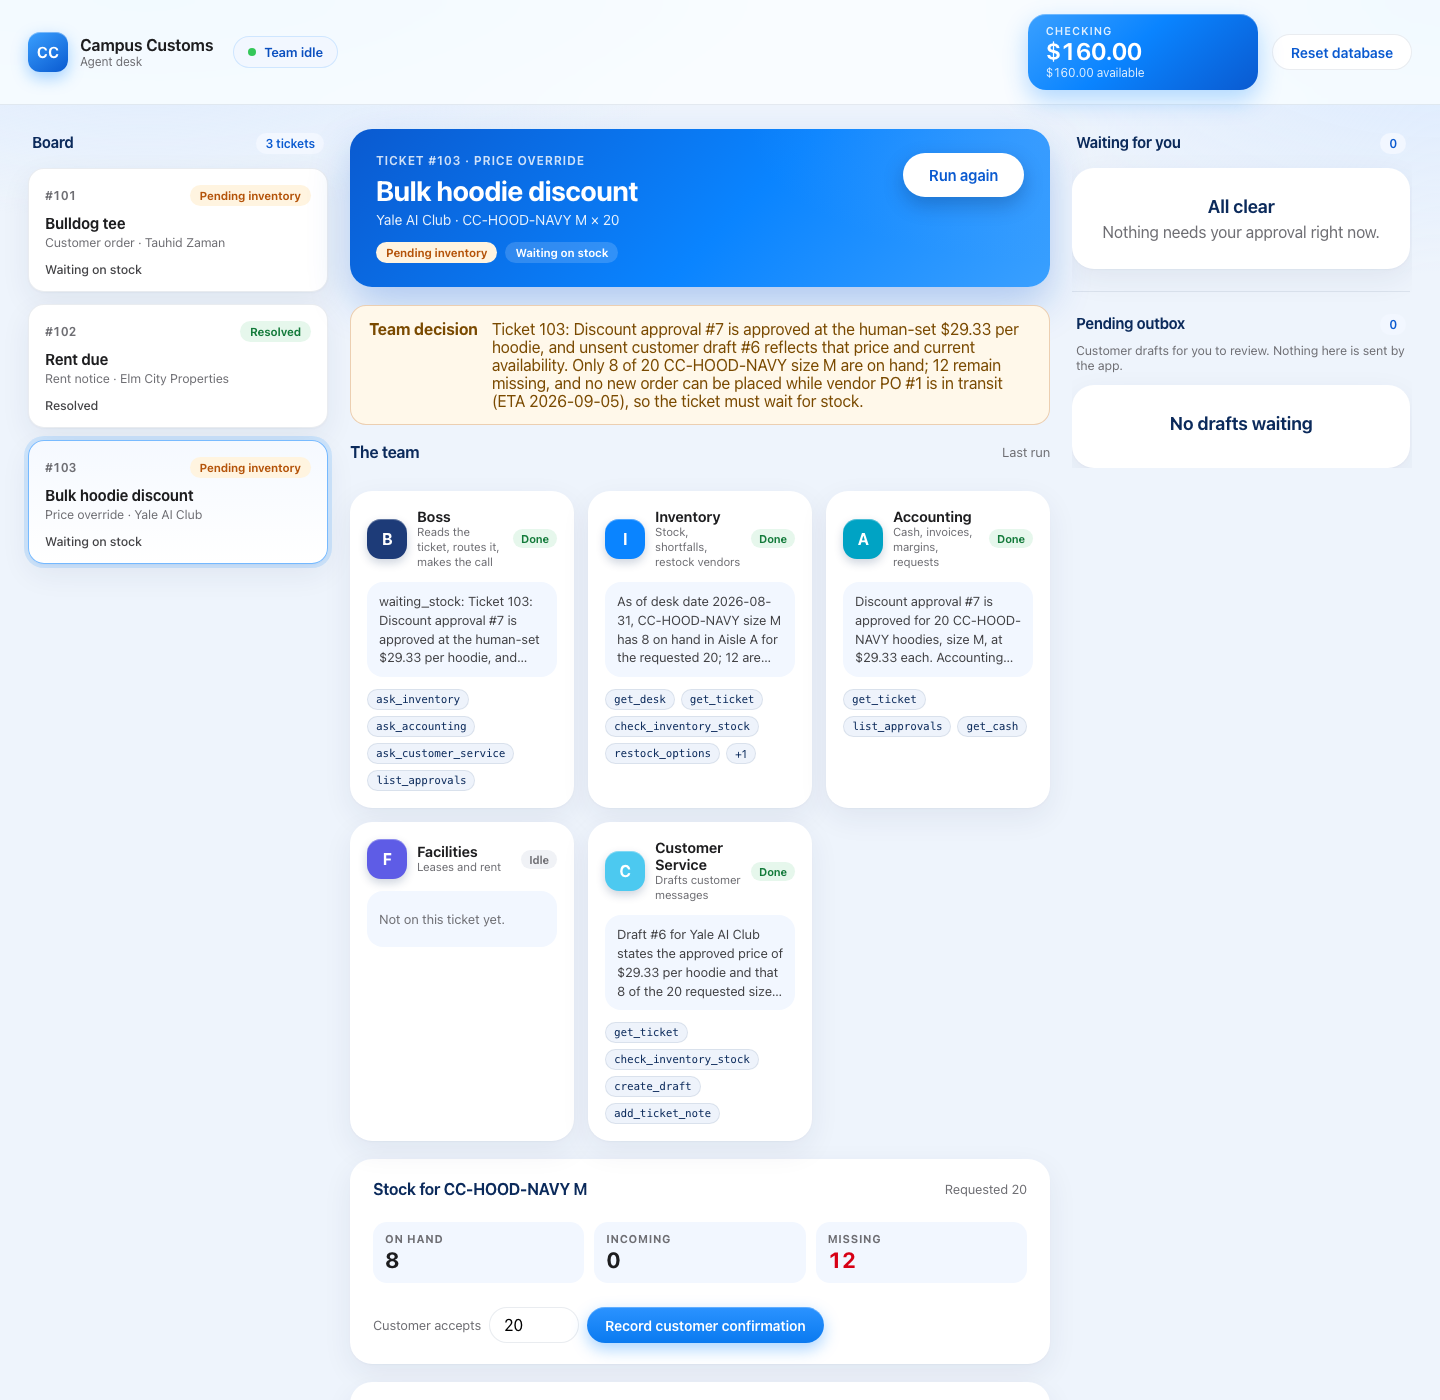
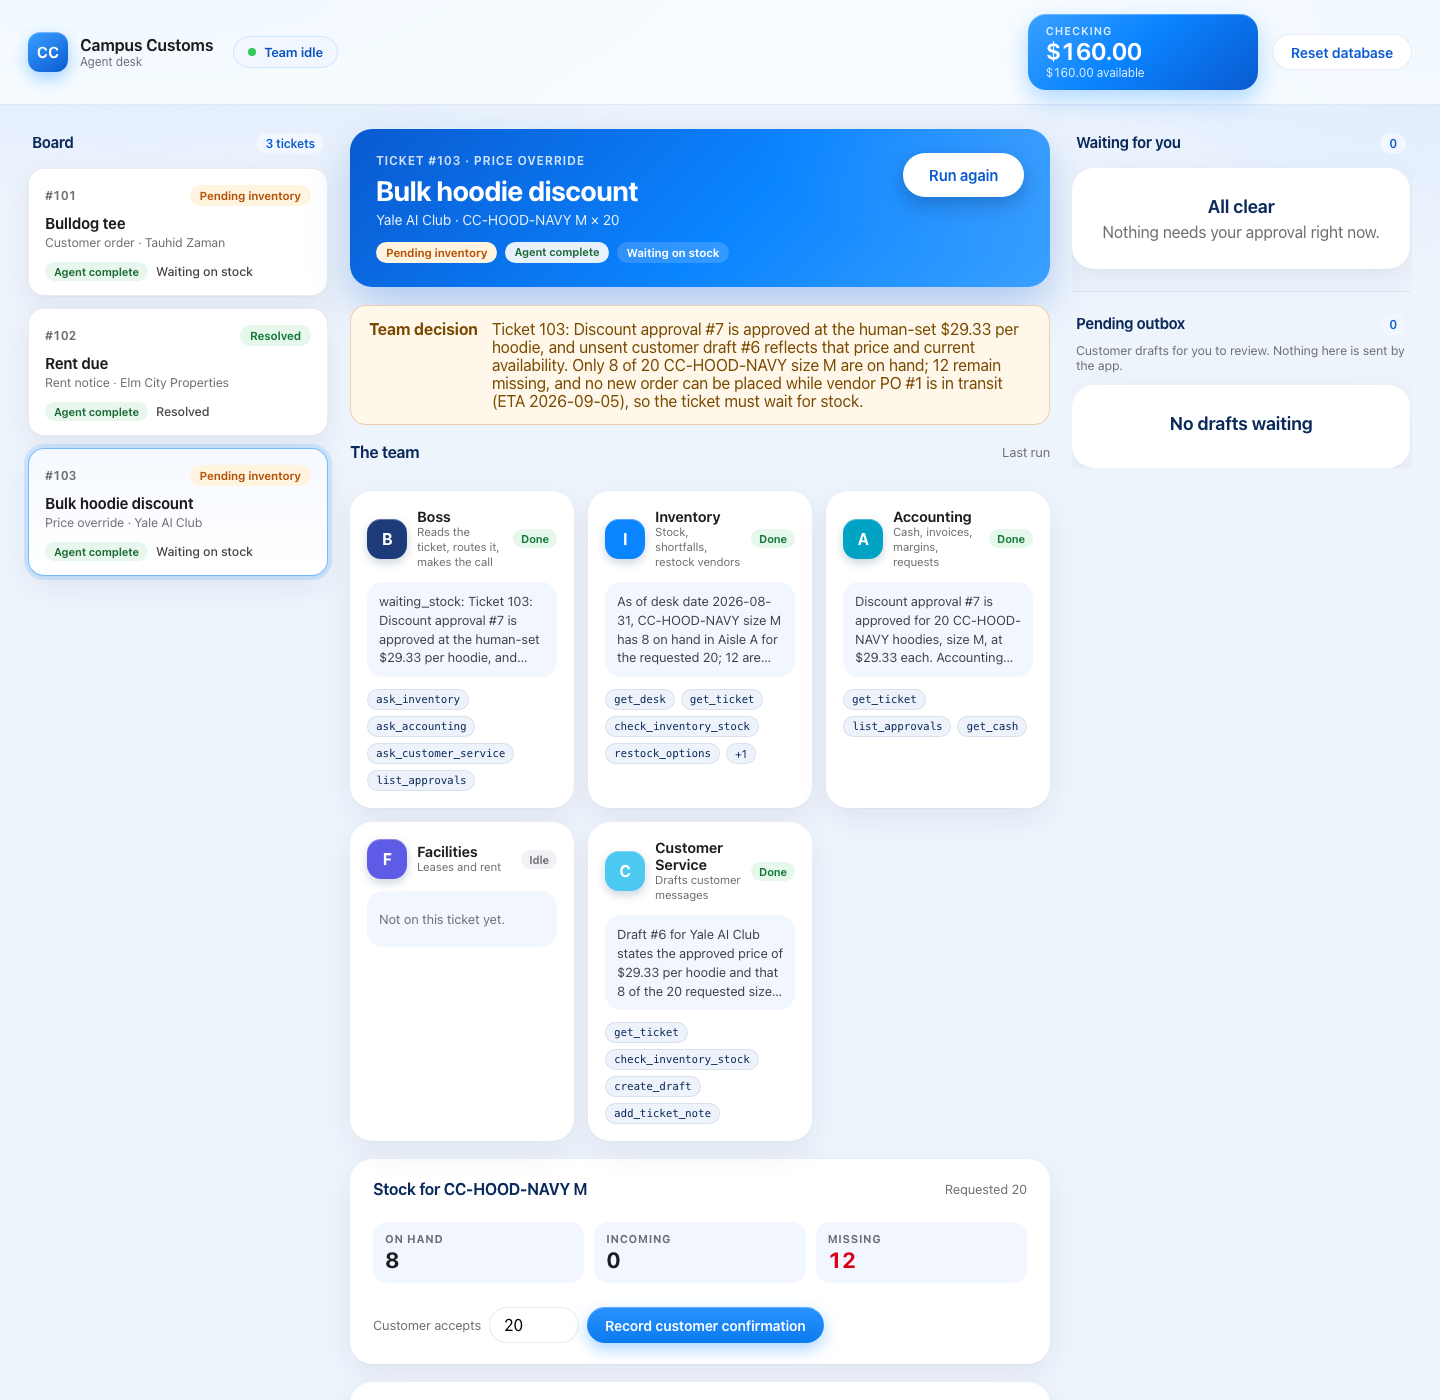
Separate agent outcome from ticket status: agent complete vs ticket pending inventory/resolved/blocked

Changed region(s): [[0.0, 0.1843, 0.25, 0.43], [0.3438, 0.1536, 0.5, 0.215]]

diff --git a/output/desk_tickets.html b/output/desk_tickets.html
@@ -468,9 +468,9 @@ Specialist to specialist: none expected. Possible: accounting asks Boss for the 
       <table>
         <thead><tr><th>Ticket</th><th>Status</th><th>Checking at that point</th><th>Cash that belongs to this ticket</th></tr></thead>
         <tbody>
-          <tr><td>101</td><td>Payments resolved; ticket pending inventory (not resolved). The tee arrives 2026-09-05, then it is fulfilled.</td><td>$160.00</td><td>−$840.00 (#1, invoice 501). The $8.00 for PO #2 is not paid yet.</td></tr>
-          <tr><td>102</td><td>Resolved</td><td>$160.00</td><td>−$2,400.00 (#3, rent). Resolution itself moved no cash.</td></tr>
-          <tr><td>103</td><td>Pending inventory (not resolved)</td><td>$160.00</td><td>None. Nothing was paid for this ticket.</td></tr>
+          <tr><td>101</td><td>Agent complete. Payments resolved; ticket pending inventory (not resolved). The tee arrives 2026-09-05, then it is fulfilled.</td><td>$160.00</td><td>−$840.00 (#1, invoice 501). The $8.00 for PO #2 is not paid yet.</td></tr>
+          <tr><td>102</td><td>Agent complete. Ticket resolved.</td><td>$160.00</td><td>−$2,400.00 (#3, rent). Resolution itself moved no cash.</td></tr>
+          <tr><td>103</td><td>Agent complete. Ticket pending inventory (not resolved).</td><td>$160.00</td><td>None. Nothing was paid for this ticket.</td></tr>
         </tbody>
       </table>
       <p class="muted" style="margin-top:12px">Original run, for reference: the run record in <code>resolved_tickets.json</code> also paid an $8.00 invoice for PO #1 on arrival, which ended at $152.00. That payment is not in the kept session.</p>
@@ -484,7 +484,7 @@ Specialist to specialist: none expected. Possible: accounting asks Boss for the 
       <p class="muted" style="margin:0 0 18px">Drafted from your notes during this session and checked against the audit trail, the database, and the ticket tabs. Edit anything that doesn't read as you.</p>
 
       <h3>1. The short version</h3>
-      <p>Ticket 102 resolved cleanly. Ticket 101 is waiting on stock: its payment and purchase order are approved, and the tee arrives 2026-09-05, when it can be fulfilled and resolved. Ticket 103 is pending inventory: a $29.33 discount is approved, and the 12 missing hoodies wait on PO #1. During the run the team repeated the same blocker several times. Ticket 101's payments are resolved, but the ticket is pending inventory until the tee arrives. Checking went from $3,400.00 to $160.00 in the kept session, and every dollar out was an approval I clicked. The team did the reasoning and the paperwork, and the money stayed in my hands. The biggest weakness was not reasoning. It was that the agents couldn't stop, and the board sometimes showed a status that was already out of date.</p>
+      <p>Ticket 102 resolved cleanly. The team is complete on ticket 101: its payment and purchase order are approved, and no person is needed. The ticket itself is pending inventory until the tee arrives on 2026-09-05, when it can be fulfilled and resolved. The team is complete on ticket 103, and the ticket is pending inventory: a $29.33 discount is approved, and the 12 missing hoodies wait on PO #1. During the run the team repeated the same blocker several times. Ticket 101's payments are resolved, but the ticket is pending inventory until the tee arrives. Checking went from $3,400.00 to $160.00 in the kept session, and every dollar out was an approval I clicked. The team did the reasoning and the paperwork, and the money stayed in my hands. The biggest weakness was not reasoning. It was that the agents couldn't stop, and the board sometimes showed a status that was already out of date.</p>
       <p class="muted" style="font-size:13px"><b>Evidence:</b> cash tab itemization and ending balance; the 101, 102, and 103 tabs (Actual sections).</p>
 
       <h3>2. How the agents performed on each ticket</h3>

diff --git a/output/resolved_board.html b/output/resolved_board.html
@@ -28,7 +28,7 @@
   <figure>
     <img src="ticket_101.png" alt="Campus Customs desk with ticket 101 selected, waiting on stock">
     <figcaption><b>Ticket 101: Bulldog tee for Tauhid Zaman. <span class="waiting">Pending inventory.</span></b><br>
-      Payment resolved: invoice 501 ($840) paid. Purchase order for one tee ($8.00) approved, ETA 2026-09-05. The ticket is pending inventory arriving to be fulfilled, so it is not resolved. It resumes automatically on arrival.</figcaption>
+      Agent complete. Payment resolved: invoice 501 ($840) paid. Purchase order for one tee ($8.00) approved, ETA 2026-09-05. The ticket is pending inventory arriving to be fulfilled, so it is not resolved. It resumes automatically on arrival.</figcaption>
   </figure>
   <figure>
     <img src="ticket_102.png" alt="Campus Customs desk with ticket 102 selected, showing it resolved">
@@ -38,7 +38,7 @@
   <figure>
     <img src="ticket_103.png" alt="Campus Customs desk with ticket 103 selected, showing it pending inventory">
     <figcaption><b>Ticket 103: Bulk hoodie discount for Yale AI Club. <span class="waiting">Pending inventory.</span></b><br>
-      Discount approved at $29.33 (approval #7). 12 hoodies are missing; no new order is possible while PO #1 is in transit. A $264.00 restock would need more cash than checking holds, so the ticket may return to blocked. Reasoning is in the harness, section "Ticket 103: status and reasoning."</figcaption>
+      Agent complete. Discount approved at $29.33 (approval #7). 12 hoodies are missing; no new order is possible while PO #1 is in transit. A $264.00 restock would need more cash than checking holds, so the ticket may return to blocked. Reasoning is in the harness, section "Ticket 103: status and reasoning."</figcaption>
   </figure>
 </main>
 </body>

diff --git a/frontend/src/components/TicketPanel.tsx b/frontend/src/components/TicketPanel.tsx
@@ -2,7 +2,7 @@ import { useState } from "react";
 import type { ActivityEvent, TicketDetail, TicketSummary } from "../types";
 import { AGENTS, AGENT_KEYS, agentViews, currentRun, isAgentKey, runSummary } from "../agents";
 import type { AgentKey, AgentView } from "../agents";
-import { money, stateLabel, statusLabel, timeOf, typeLabel } from "../format";
+import { agentLabel, money, stateLabel, statusLabel, timeOf, typeLabel } from "../format";
 
 interface TicketPanelProps {
   summary: TicketSummary | undefined;
@@ -49,6 +49,7 @@ export function TicketPanel({ summary, detail, events, busy, runningHere, onStar
           </div>
           <div className="hero-tags">
             <span className={`state-pill ${summary.state}`}>{stateLabel(summary.state)}</span>
+            <span className={`agent-pill ${summary.agent_outcome}`}>{agentLabel(summary.agent_outcome)}</span>
             {statusLabel(summary.status) !== stateLabel(summary.state) && (
               <span className="status-tag">{statusLabel(summary.status)}</span>
             )}

diff --git a/frontend/src/styles.css b/frontend/src/styles.css
@@ -407,3 +407,10 @@ button:focus-visible, input:focus-visible, textarea:focus-visible { outline: 3px
 .stock-card label { white-space: nowrap; }
 .stock-card input[type="number"] { width: 90px; flex: none; }
 .resolution-banner.waiting { background: #fff8ea; color: #7a4a00; border-color: rgba(180, 83, 9, 0.25); }
+
+/* ---------- Agent outcome (separate from ticket status) ---------- */
+.agent-pill { font-size: 11px; font-weight: 650; padding: 3px 9px; border-radius: 999px; white-space: nowrap; }
+.agent-pill.complete { background: #e8f7ee; color: #1f6b35; }
+.agent-pill.needs_you { background: #fff1d6; color: #8a5a00; }
+.hero-tags .agent-pill.complete { background: rgba(255,255,255,0.9); color: #1f6b35; }
+.hero-tags .agent-pill.needs_you { background: rgba(255,255,255,0.9); color: #8a5a00; }

diff --git a/frontend/src/components/TicketList.tsx b/frontend/src/components/TicketList.tsx
@@ -1,5 +1,5 @@
 import type { TicketSummary } from "../types";
-import { stateLabel, statusLabel, typeLabel } from "../format";
+import { agentLabel, stateLabel, statusLabel, typeLabel } from "../format";
 
 interface TicketListProps {
   tickets: TicketSummary[];
@@ -35,6 +35,7 @@ export function TicketList({ tickets, selectedId, runningId, onSelect }: TicketL
                   {typeLabel(ticket.type)} · {ticket.requester}
                 </div>
                 <div className="ticket-foot">
+                  <span className={`agent-pill ${ticket.agent_outcome}`}>{agentLabel(ticket.agent_outcome)}</span>
                   <span className={`status-text ${running ? "running" : ""}`}>
                     {running ? "Team working…" : statusLabel(ticket.status)}
                   </span>

diff --git a/frontend/src/format.ts b/frontend/src/format.ts
@@ -14,6 +14,8 @@ const STATUS_LABELS: Record<string, string> = {
 export const stateLabel = (state: string) =>
   state === "resolved" ? "Resolved" : state === "blocked" ? "Blocked" : state === "waiting" ? "Pending inventory" : "Open";
 
+export const agentLabel = (outcome: string) => (outcome === "needs_you" ? "Agent needs you" : "Agent complete");
+
 export const statusLabel = (status: string) => STATUS_LABELS[status] ?? status.replace(/_/g, " ");
 
 const KIND_LABELS: Record<string, string> = {

diff --git a/frontend/src/types.ts b/frontend/src/types.ts
@@ -11,6 +11,7 @@ export interface TicketSummary {
   state: TicketState;
   overdue: boolean;
   pending_approvals: number;
+  agent_outcome: "complete" | "needs_you";
 }
 
 export interface Approval {

diff --git a/mcp_server/shop.py b/mcp_server/shop.py
@@ -111,7 +111,7 @@ def working_db_path() -> Path:
 def ensure_schema(conn: sqlite3.Connection) -> None:
     """Add the homework tables and ticket columns. Safe to run every time."""
     ticket_cols = {row["name"] for row in conn.execute("PRAGMA table_info(tickets)")}
-    for col in ("assigned_to", "resolution", "fulfilled_at"):
+    for col in ("assigned_to", "resolution", "fulfilled_at", "agent_outcome"):
         if col not in ticket_cols:
             conn.execute(f"ALTER TABLE tickets ADD COLUMN {col} TEXT")
     conn.executescript(EXTRA_SCHEMA)
@@ -592,25 +592,44 @@ def add_ticket_note(ticket_id: int, note: str, agent: str) -> dict[str, Any]:
         return {"ok": True, "ticket_id": ticket_id}
 
 
+def _open_shortfall(c: sqlite3.Connection, ticket: dict[str, Any]) -> int:
+    """Units still missing for a ticket's item. Zero when there is no item, the order is fulfilled, or stock covers it."""
+    if not ticket["sku"] or not ticket["qty"] or ticket["fulfilled_at"]:
+        return 0
+    on_hand = _one(c, "SELECT qty FROM inventory WHERE sku = ? AND size = ?", (ticket["sku"], ticket["size"]))
+    return max(0, int(ticket["qty"]) - int(on_hand["qty"] if on_hand else 0))
+
+
 def resolve_ticket(ticket_id: int, outcome: str, summary: str, agent: str = "boss") -> dict[str, Any]:
-    """Boss's final call. outcome is resolved, awaiting_approval, waiting_stock or blocked."""
+    """Record the team's final call. Two separate things are recorded:
+
+    - agent_outcome: 'needs_you' while a person has an open request on this ticket, otherwise 'complete'.
+      The team is finished with its work when nothing is waiting for a person.
+    - status: where the customer's order stands. A ticket is 'resolved' only when it is fulfilled.
+      If the team says resolved but stock is still short, the ticket is 'waiting_stock' (pending inventory).
+    """
     if outcome not in OUTCOMES:
         raise ShopError(f"outcome must be one of {', '.join(OUTCOMES)}")
     with connect() as c:
         today = _today(c)
         ticket = _ticket_or_raise(c, ticket_id)
-        if outcome == "resolved" and ticket["sku"] and ticket["qty"] and not ticket["fulfilled_at"]:
-            on_hand = _one(c, "SELECT qty FROM inventory WHERE sku = ? AND size = ?", (ticket["sku"], ticket["size"]))
-            short = int(ticket["qty"]) - int(on_hand["qty"] if on_hand else 0)
-            if short > 0:
-                raise ShopError(f"cannot resolve: {short} unit(s) still short for {ticket['sku']} {ticket['size']}; use waiting_stock or blocked")
+        pending = c.execute(
+            "SELECT COUNT(*) AS n FROM approvals WHERE ticket_id = ? AND status = 'pending'", (ticket_id,)
+        ).fetchone()["n"]
+        agent_outcome = "needs_you" if pending else "complete"
+        if outcome == "resolved":
+            status = "waiting_stock" if _open_shortfall(c, ticket) > 0 else "resolved"
+        elif outcome == "awaiting_approval" and not pending:
+            status = "open"  # nothing is waiting for a person any more, so the ticket is open for another run
+        else:
+            status = outcome
         c.execute(
-            "UPDATE tickets SET status = ?, resolution = ? WHERE id = ?",
-            (outcome, summary, ticket_id),
+            "UPDATE tickets SET status = ?, resolution = ?, agent_outcome = ? WHERE id = ?",
+            (status, summary, agent_outcome, ticket_id),
         )
-        _note(c, ticket_id, f"{agent} decision -> {outcome}: {summary}", today)
-        _log(c, agent, ticket_id, "decision", f"{outcome}: {summary}")
-        return {"ok": True, "ticket_id": ticket_id, "status": outcome}
+        _note(c, ticket_id, f"agent {agent_outcome}; ticket {status}: {summary}", today)
+        _log(c, agent, ticket_id, "decision", f"agent {agent_outcome}; ticket {status}: {summary}")
+        return {"ok": True, "ticket_id": ticket_id, "status": status, "agent_outcome": agent_outcome}
 
 
 def fulfill_order(ticket_id: int) -> dict[str, Any]:

diff --git a/backend/test_shop_rules.py b/backend/test_shop_rules.py
@@ -184,11 +184,21 @@ def test_interrupted_run_is_reopened_not_rerun(shop_db):
     assert shop_db.recover_interrupted_runs() == []
 
 
-def test_cannot_resolve_while_stock_is_short(shop_db):
-    with pytest.raises(shop.ShopError, match="still short"):
-        shop_db.resolve_ticket(103, "resolved", "discount approved, hoodies to come")
-    shop_db.resolve_ticket(103, "waiting_stock", "12 hoodies still to restock")
-    assert shop_db.get_ticket(103)["status"] == "waiting_stock"
+def test_agent_can_finish_while_the_ticket_waits_for_stock(shop_db):
+    result = shop_db.resolve_ticket(103, "resolved", "discount approved, hoodies to come")
+    assert result["agent_outcome"] == "complete" and result["status"] == "waiting_stock"
+    ticket = shop_db.get_ticket(103)
+    assert ticket["status"] == "waiting_stock" and ticket["agent_outcome"] == "complete"
+
+
+def test_ticket_resolves_only_when_fulfilled(shop_db):
+    assert shop_db.resolve_ticket(102, "resolved", "rent paid")["status"] == "resolved"
+
+
+def test_open_human_request_means_agent_needs_you(shop_db):
+    shop_db.request_human_answer(103, "What unit price should the discount use?")
+    result = shop_db.resolve_ticket(103, "awaiting_approval", "waiting for the price")
+    assert result["agent_outcome"] == "needs_you" and result["status"] == "awaiting_approval"
 
 
 def test_resolves_once_the_order_is_fulfilled(shop_db):

diff --git a/backend/models.py b/backend/models.py
@@ -88,6 +88,7 @@ class TicketSummary(BaseModel):
     state: Literal["open", "waiting", "blocked", "resolved"]
     overdue: bool
     pending_approvals: int
+    agent_outcome: Literal["complete", "needs_you"] = "complete"
 
 
 class ActivityEvent(BaseModel):

diff --git a/backend/main.py b/backend/main.py
@@ -95,6 +95,7 @@ def _summary(ticket: dict[str, Any]) -> TicketSummary:
         ),
         overdue=ticket["overdue"],
         pending_approvals=ticket["pending_approvals"],
+        agent_outcome=ticket.get("agent_outcome") or "complete",
     )
 
 

diff --git a/output/harness.md b/output/harness.md
@@ -340,7 +340,7 @@ These are enforced in code, not only in the prompts:
 - Reset to the original values. Starting checking balance: $3,400.00.
 - Fourteen team runs in the original run: ticket 101 three times, 102 twice, 103 nine times. Testing after Problem 11 added more runs, all in `output/audit_trail.json`. Events are in `output/audit_trail.json` (JSON lines, one event per line).
 - Seven requests: six approved (three payments, one purchase order, one discount, one answered question) and one declined (purchase order #7). Details are in `output/resolved_tickets.json`.
-- Ticket 101: payments resolved; pending inventory arriving to be fulfilled (not resolved). Ticket 102: resolved. Ticket 103: pending inventory (not resolved).
+- Ticket 101: agent complete; payments resolved; ticket pending inventory (not resolved). Ticket 102: agent complete; ticket resolved. Ticket 103: agent complete; ticket pending inventory (not resolved).
 - Checking ends at $160.00 in the kept session (invoice 501 and rent paid). The original run ended at $152.00 after an $8.00 bill was paid on arrival.00. The cash itemization is on the cash tab of `output/desk_tickets.html`.
 - Known issue: a decision recorded after an approval executes during a run can overwrite the ticket's status. This happened on tickets 101 and 103 and is described in the reflection tab.
 
@@ -348,7 +348,7 @@ These are enforced in code, not only in the prompts:
 
 - **Run reasons.** Every run records why it started: a decision, a human start, a queue entry, or a reopen. The dashboard shows the running ticket and the queue.
 - **Restart recovery.** A ticket left `in_progress` by a server restart is reopened at startup, with a note. It is not run again automatically.
-- **Resolution guard.** A ticket cannot be resolved while stock for it is still short. The team records the refusal as blocked, with the reason.
+- **Two statuses.** The agent outcome (complete or needs you) is separate from the ticket status (open, pending inventory, blocked, or resolved). The team is complete when no person has an open request. A ticket is resolved only when it is fulfilled. If the team says resolved but stock is short, the ticket becomes pending inventory.
 - **Waiting on stock.** Tickets waiting for a shipment show as "Waiting on stock," not "Open," and are not resolved.
 - **Stale-decision fix.** If an approval is decided during a run, the ticket reopens and runs again. Tested live on ticket 101.
 - **Pending outbox.** Customer drafts appear under the approvals area. "Mark ready to send" and "Discard" record a decision only. Nothing is sent.
